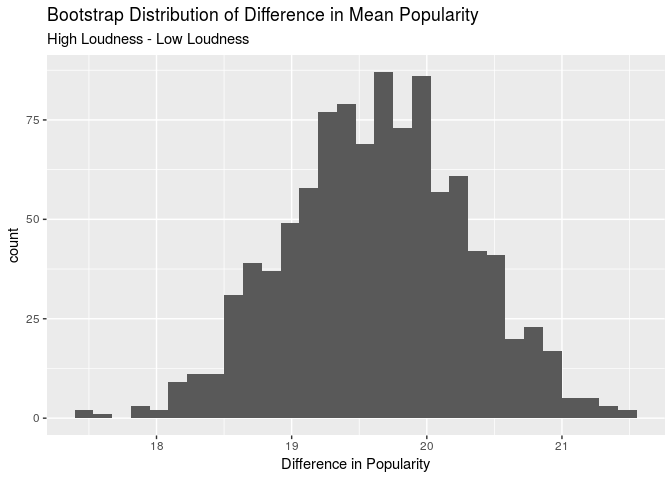
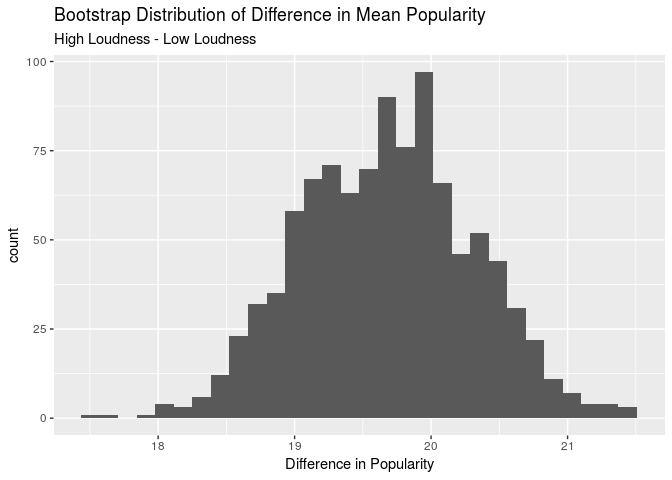
edited presentation

diff --git a/project/project.md b/project/project.md
@@ -203,7 +203,7 @@ liveness, and acousticness
 
 After conducting the exploratory data analysis, we wanted to further
 investigate the relationships between individual variables and song
-popularity. In this section, bootstrapping was used to determine the
+popularity. In this section, bootstrapping was used to determine the 95%
 confidence intervals for the difference in mean popularity scores
 between different categories within variables that appeared to have the
 strongest relationship with popularity scores. For example, the
@@ -220,16 +220,16 @@ the Rap and Pop genres (the most popular 2 genres) were
     ## # A tibble: 1 x 1
     ##   lower_bound
     ##         <dbl>
-    ## 1        3.74
+    ## 1        3.87
 
     ## # A tibble: 1 x 1
     ##   upper_bound
     ##         <dbl>
-    ## 1        7.06
+    ## 1        7.10
 
 We are 95% certain that the difference in means between the popularity
-score of the rap and pop genres is between 3.7352927 and
-7.0617716.
+score of the rap and pop genres is between 3.8661785 and
+7.0964118.
 
 ##### Estimate of the Popularity Difference between 4/4 Time Signature and Non-4/4 Time Signature
 
@@ -256,7 +256,7 @@ signature.
     ## # A tibble: 1 x 1
     ##   lower_bound
     ##         <dbl>
-    ## 1        10.5
+    ## 1        10.4
 
     ## # A tibble: 1 x 1
     ##   upper_bound
@@ -265,7 +265,7 @@ signature.
 
 We are 95% certain that the difference in popularity means between the
 songs with higher (highest 25%) time\_signature and the lower (lowest
-25%) time\_signature is between 10.4998313 and 13.3559074.
+25%) time\_signature is between 10.3739344 and 13.3618742.
 
 #### Confidence Intervals for Continous Variables
 
@@ -276,10 +276,10 @@ that were chosen are: danceability, energy, liveness, loudness, and
 acousticness.
 
 For each of these variables, we took the highest 25% of the data (“High”
-danceability, energy, liveness etc.) and the lowest 25% of the data
-(“Low” danceability, energy, liveness etc.) and conducted a 95%
-confidence interval test for the difference in mean popularities between
-the two.
+danceability, energy, loudness and acousticness.) and the lowest 25% of
+the data (“Low” danceability, energy, loudness, and acousticness) and
+conducted a 95% confidence interval test for the difference in mean
+popularities between the two.
 
 ##### Danceability
 
@@ -310,11 +310,11 @@ Songs with high danceability have a mean popularity score that is around
     ## # A tibble: 1 x 1
     ##   upper_bound
     ##         <dbl>
-    ## 1        12.2
+    ## 1        12.3
 
 We are 95% certain that the difference in popularity means between the
-songs with high danceability and low danceability is between 10.0226991
-and 12.2221103.
+songs with high danceability and low danceability is between 10.0105387
+and 12.2793069.
 
 ##### Energy
 
@@ -340,15 +340,15 @@ higher compared songs with low
     ## # A tibble: 1 x 1
     ##   lower_bound
     ##         <dbl>
-    ## 1        11.2
+    ## 1        11.3
 
     ## # A tibble: 1 x 1
     ##   upper_bound
     ##         <dbl>
-    ## 1        14.0
+    ## 1        13.8
 
 We are 95% certain that the difference in means between songs with high
-energy and low energy is between 11.2036999 and 14.0499756.
+energy and low energy is between 11.2653239 and 13.7750617.
 
 ##### Loudness
 
@@ -374,7 +374,7 @@ higher compared with songs with low
     ## # A tibble: 1 x 1
     ##   lower_bound
     ##         <dbl>
-    ## 1        18.3
+    ## 1        18.5
 
     ## # A tibble: 1 x 1
     ##   upper_bound
@@ -382,8 +382,8 @@ higher compared with songs with low
     ## 1        20.9
 
 We are 95% certain that the difference in mean popularity scores between
-songs with high loudness and the low loudness is between 18.3165483 and
-20.9230737.
+songs with high loudness and the low loudness is between 18.4658069 and
+20.8691712.
 
 ##### Acousticness
 
@@ -417,8 +417,8 @@ Songs with high acousticness have a mean popularity score that is around
     ## 1       -18.4
 
 We are 95% certain that the difference in popularity means between songs
-with high acousticness and the low acousticness is between -20.8779025
-and -18.3932181.
+with high acousticness and the low acousticness is between -20.8563839
+and -18.3572302.
 
 ### Permutation Analysis
 
